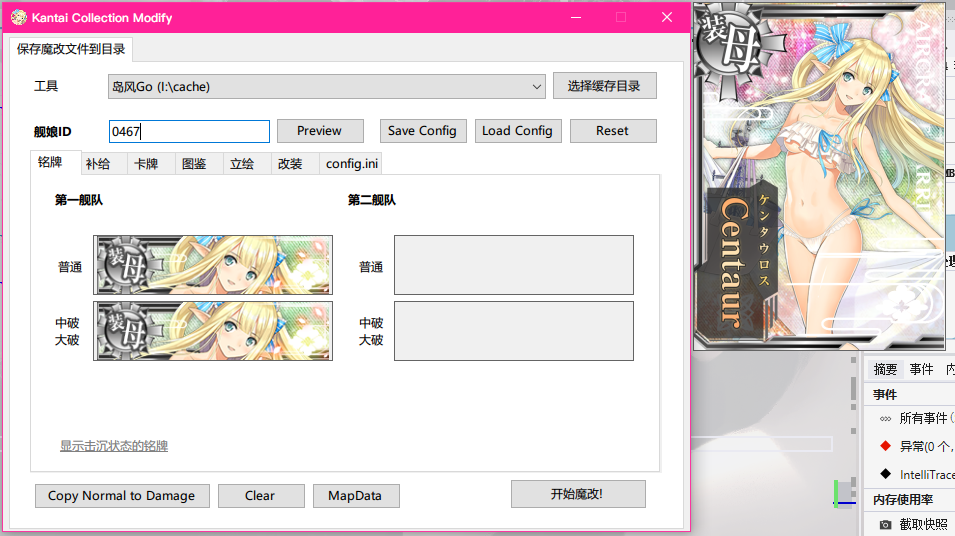
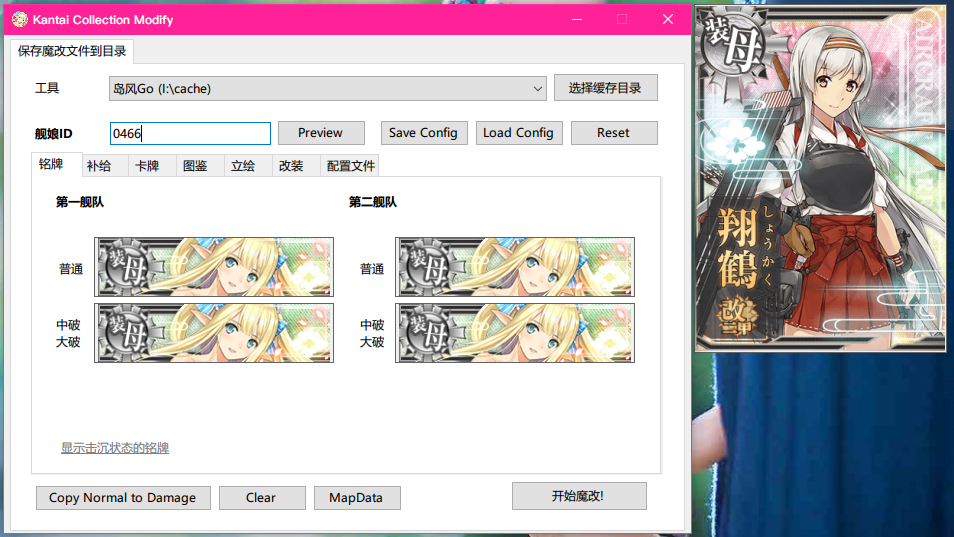
add document

diff --git a/README.md b/README.md
@@ -1,5 +1,9 @@
 # Kancolle一键魔改
 
-自动把魔改文件复制到对应的目录中，省去了一个个重命名的麻烦。
+- 自动把魔改文件复制到对应的目录中，省去了一个个重命名的麻烦。
+
+- 坐标编辑功能，自动生成 .config.ini 配置文件。
 
 ![UI Preview](images/1.png)
+
+![UI Preview](images/2.png)
